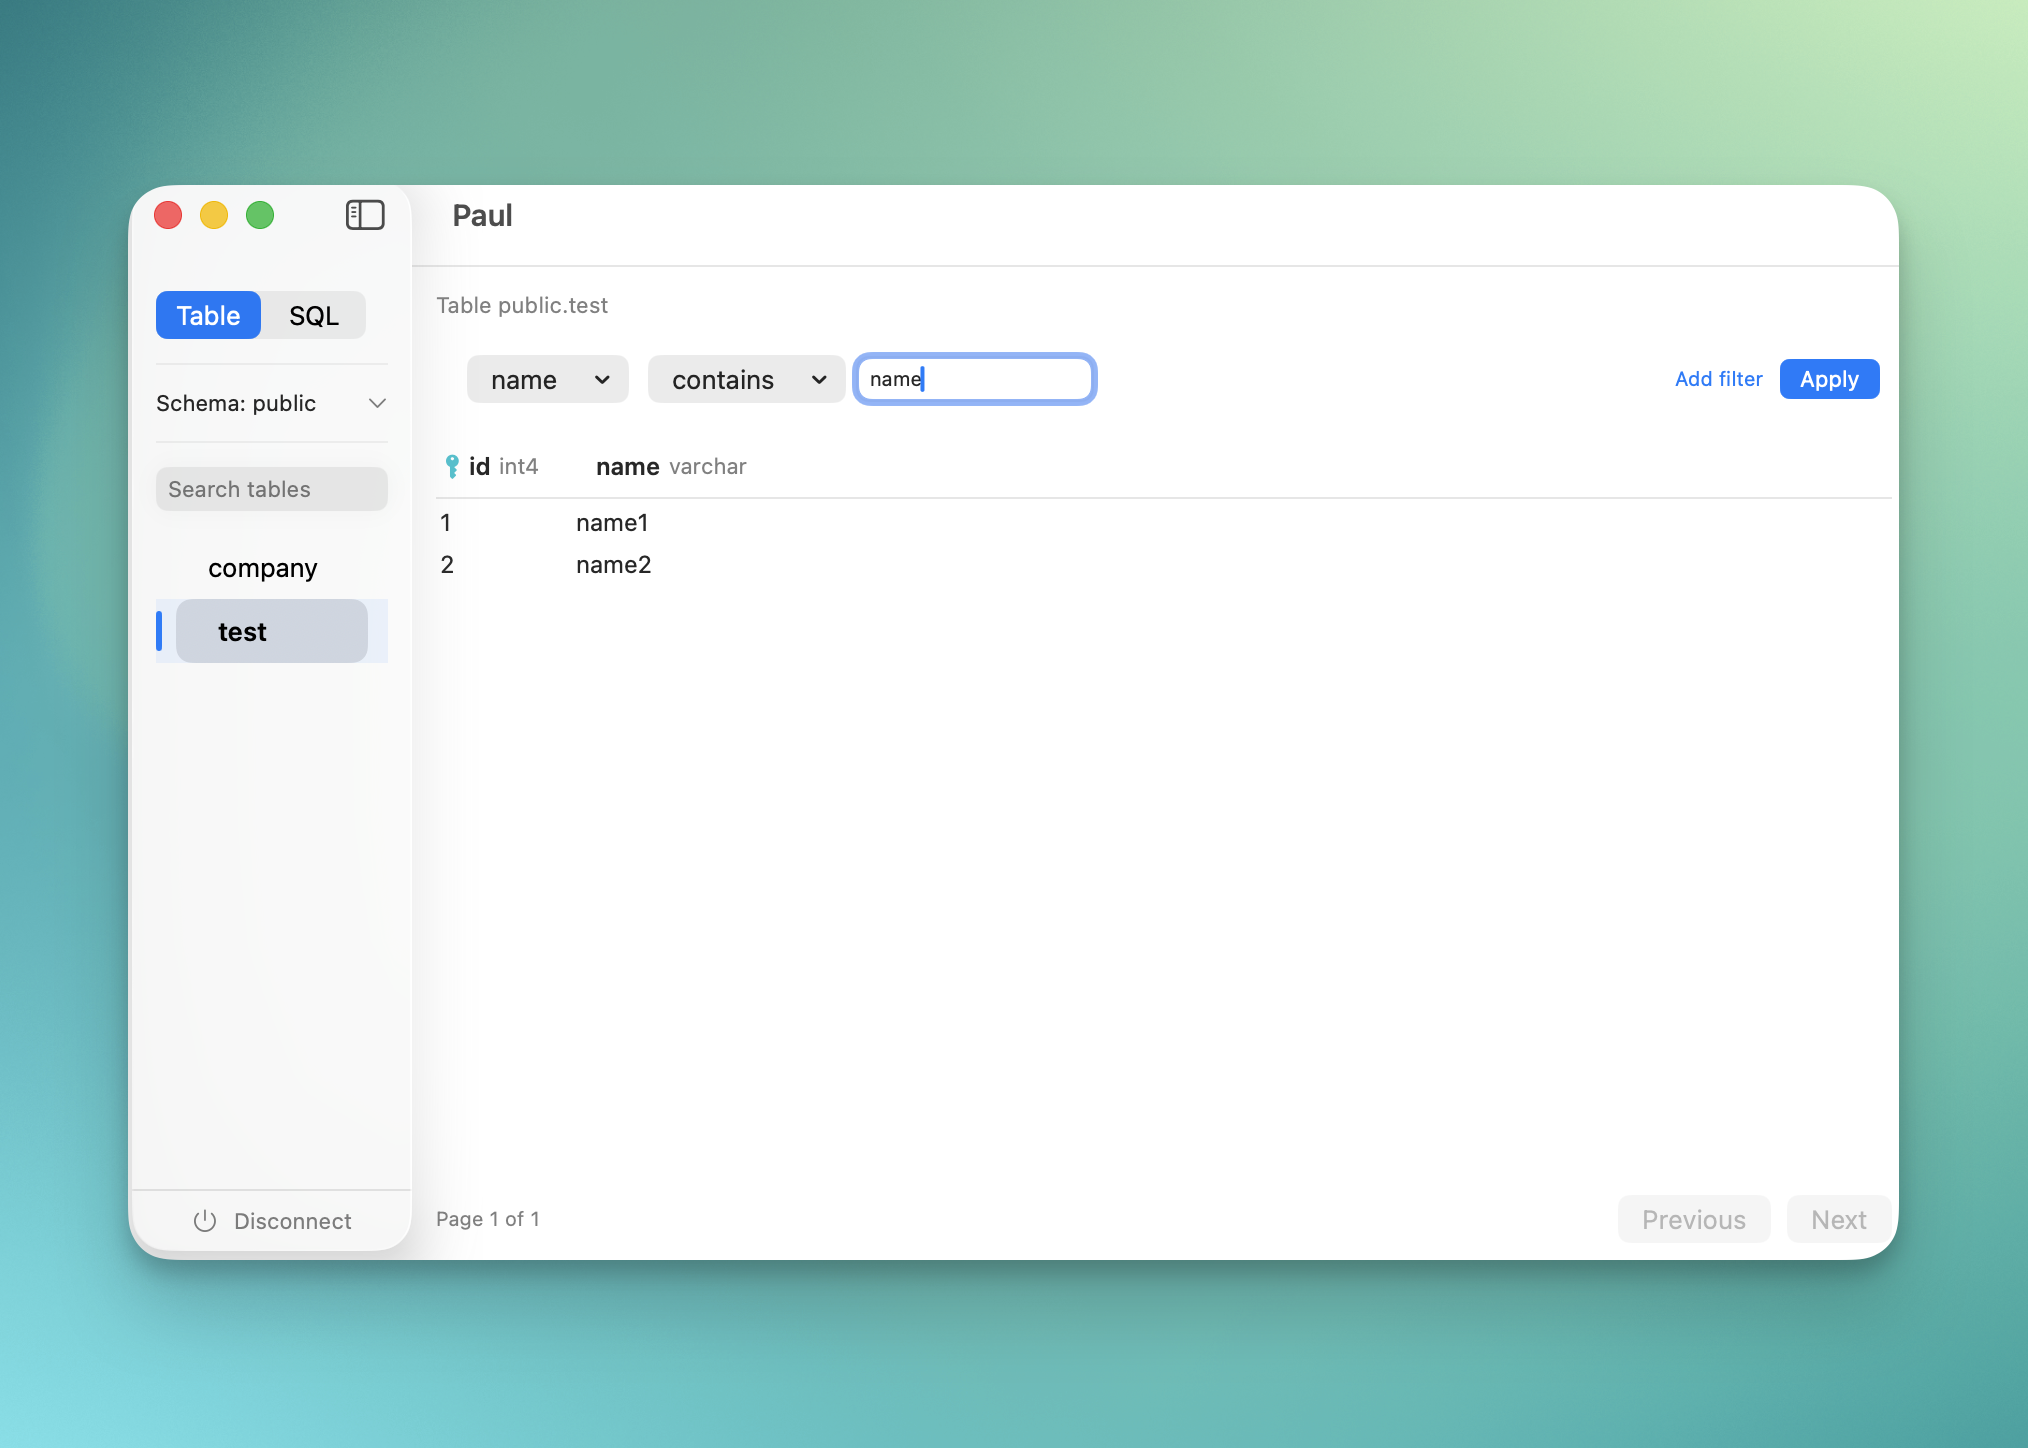
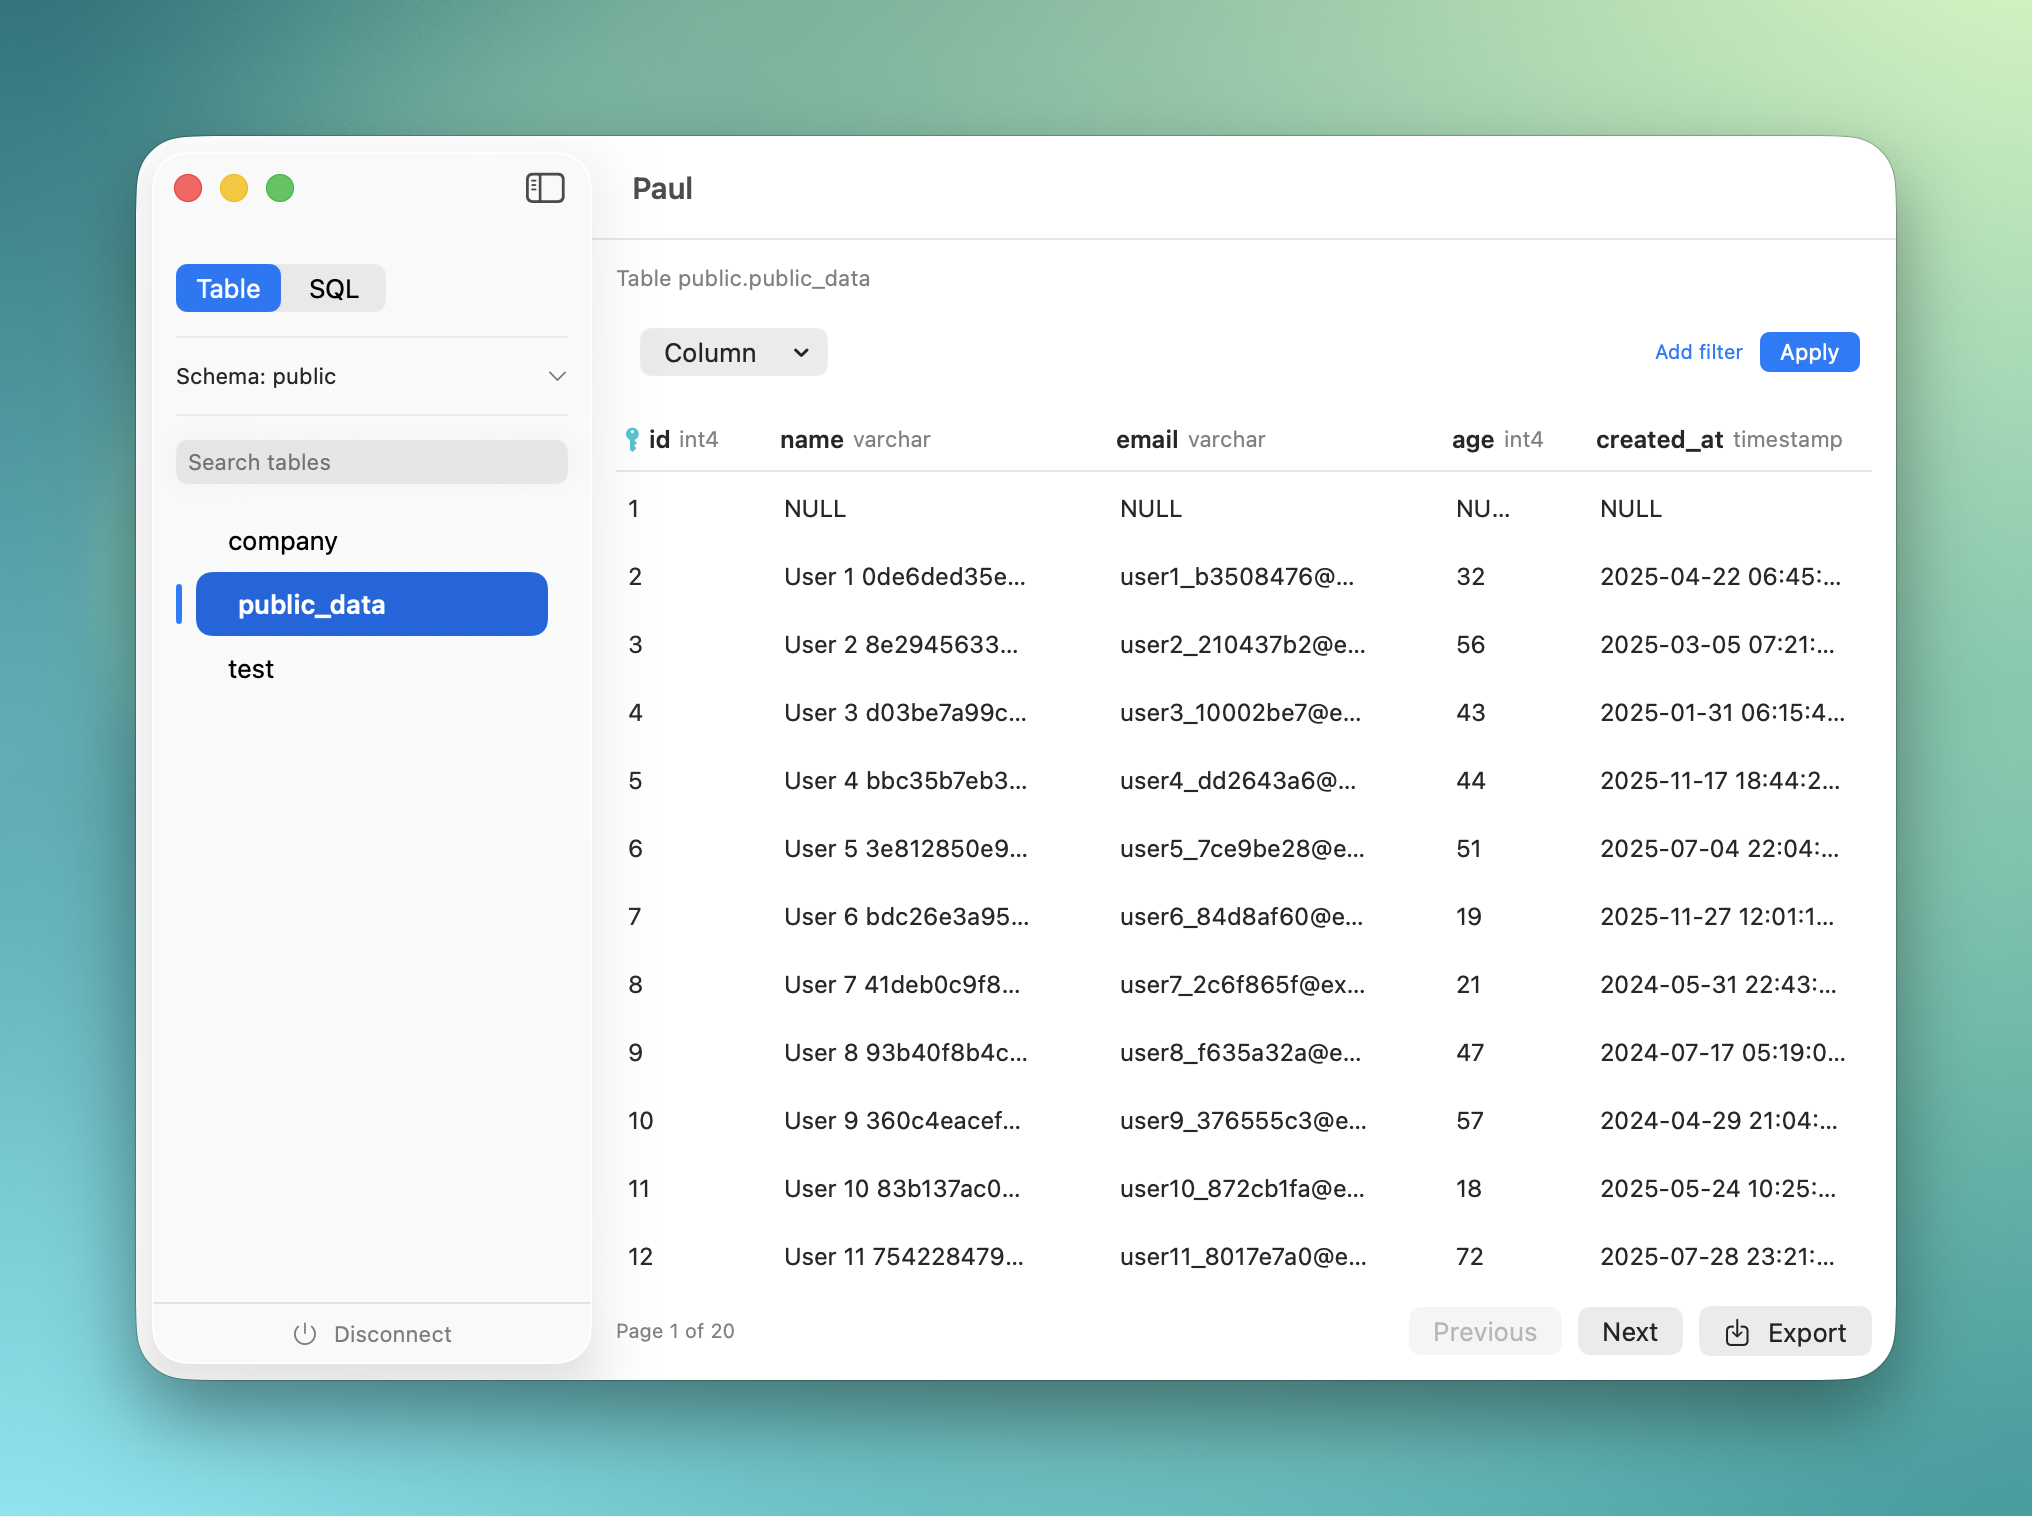
(product) new agent mode for Paul

diff --git a/_products/paul.md b/_products/paul.md
@@ -12,7 +12,8 @@ permalink: /products/paul
     <p class="product-badge">Free macOS app · Read‑only PostgreSQL</p>
     <h1 class="product-hero-title">Paul</h1>
     <p class="product-hero-subtitle">
-      Minimal GUI for investigating PostgreSQL
+      Investigate FAST with confidence.<br>
+      Read‑only, visual, light.
     </p>
     <div class="product-hero-actions">
       <a href="/assets/files/Paul.dmg" class="btn product-cta-primary">
@@ -20,6 +21,19 @@ permalink: /products/paul
       </a>
       <span class="product-hero-meta">macOS 10.15+ · Intel &amp; Apple Silicon</span>
     </div>
+  </div>
+</section>
+
+<section class="product-section product-section-muted">
+  <div class="product-section-inner">
+    <h2 class="product-section-title">The Problem</h2>
+    <p class="product-section-lead">
+      You get an urgent user support ticket. You must check their data.
+      But opening pgAdmin or DBeaver takes ages... You only need a quick look first without waiting 5 minutes.
+    </p>
+    <p class="product-section-lead">
+      Paul gives you a fast, focused, visual way navigate data and investigate issues in seconds.
+    </p>
   </div>
 </section>
 
@@ -32,7 +46,7 @@ permalink: /products/paul
     <div class="product-grid">
       <div class="product-screenshot">
         <img src="/assets/img/paul-3.png" alt="Paul — saved connections and Add Connection">
-        <p class="product-screenshot-caption">Saved connections &amp; quick “Add connection” flow</p>
+        <p class="product-screenshot-caption">Saved connections &amp; quick "Add connection" flow</p>
       </div>
       <div class="product-screenshot">
         <img src="/assets/img/paul-1.png" alt="Paul — table view with filters">
@@ -42,13 +56,29 @@ permalink: /products/paul
         <img src="/assets/img/paul-2.png" alt="Paul — raw SQL editor and results">
         <p class="product-screenshot-caption">Drop to SQL when you need more control</p>
       </div>
+      <div class="product-screenshot">
+        <img src="/assets/img/paul-5-split-view.png" alt="Paul — split-view navigation with multiple tables">
+        <p class="product-screenshot-caption">Split-view navigation keeps context as you explore related tables</p>
+      </div>
+      <div class="product-screenshot">
+        <img src="/assets/img/paul-6-filter-sort.png" alt="Paul — filter and sort table data">
+        <p class="product-screenshot-caption">Filter &amp; sort table data with intuitive controls</p>
+      </div>
+      <div class="product-screenshot">
+        <img src="/assets/img/paul-4-export-csv.png" alt="Paul — export data to CSV">
+        <p class="product-screenshot-caption">Export filtered data to CSV for further analysis</p>
+      </div>
+      <div class="product-screenshot">
+        <img src="/assets/img/paul-7-agent.png" alt="Paul — agent mode">
+        <p class="product-screenshot-caption">Agent mode</p>
+      </div>
     </div>
   </div>
 </section>
 
 <section class="product-section">
   <div class="product-section-inner">
-    <h2 class="product-section-title">Built for the way you work</h2>
+    <h2 class="product-section-title">Built for debugging, not database admin</h2>
     <p class="product-section-lead">
       Fast, read‑only, and focused. Perfect for on‑call, support, and debugging—without touching production.
     </p>
@@ -73,6 +103,32 @@ permalink: /products/paul
 </section>
 
 <section class="product-section product-section-muted">
+  <div class="product-section-inner">
+    <h2 class="product-section-title">Paul vs. traditional database tools</h2>
+    <p class="product-section-lead">
+      When you need to investigate user data, not manage schemas or run complex analytics.
+    </p>
+    <div class="product-grid">
+      <div class="product-card">
+        <h4 style="color: #159957;">⚡ Lightweight & Fast</h4>
+        <p><strong>Paul:</strong> &lt;20MB, opens in 2 seconds</p>
+        <p><strong>Traditional tools:</strong> 200MB+, slow startup</p>
+      </div>
+      <div class="product-card">
+        <h4 style="color: #159957;">🔒 Read‑only by design</h4>
+        <p><strong>Paul:</strong> Safe for production, no accidental edits</p>
+        <p><strong>Traditional tools:</strong> Full admin access, risky</p>
+      </div>
+      <div class="product-card">
+        <h4 style="color: #159957;">🎯 Focused workflow</h4>
+        <p><strong>Paul:</strong> Visual navigation, no SQL needed</p>
+        <p><strong>Traditional tools:</strong> Complex UI, requires SQL expertise</p>
+      </div>
+    </div>
+  </div>
+</section>
+
+<section class="product-section">
   <div class="product-section-inner">
     <h2 class="product-section-title">Perfect for</h2>
     <p class="product-section-lead">
